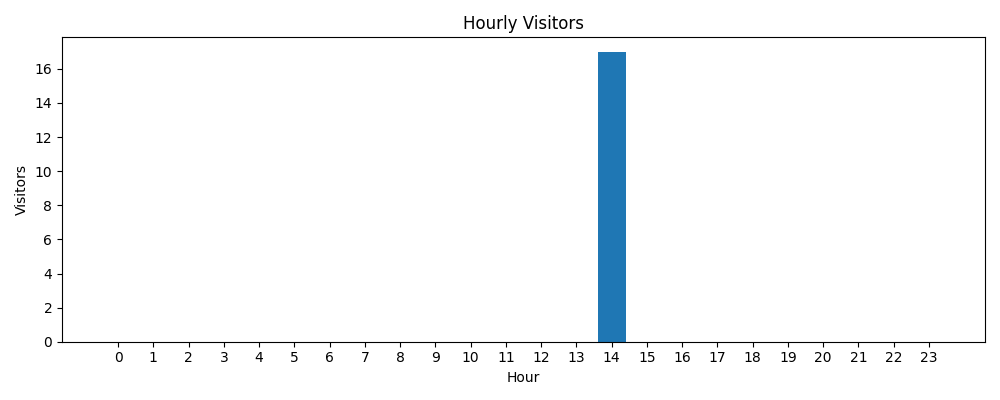
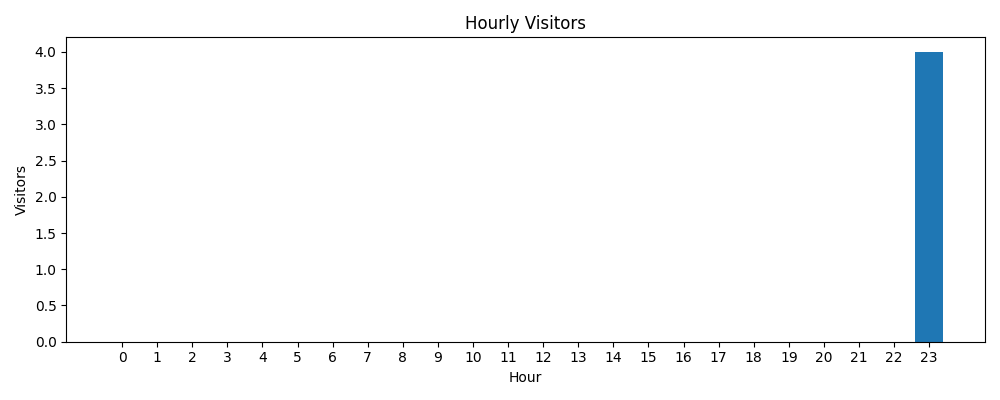
Added CSV export, live dwell time fixes, dashboard improvements and analytics updates

diff --git a/dashboard.html b/dashboard.html
@@ -72,10 +72,10 @@
 
 <body>
 
-<h1>🚀 Pluto Analytics</h1>
+<h1> Pluto Analytics </h1>
 
 
-<h1>🚀 Pluto Analytics</h1>
+
 
 <div style="margin-bottom:20px;">
     <a href="/export">

diff --git a/main.py b/main.py
@@ -389,22 +389,45 @@ def run_detector():
 
             last_dashboard_update = time.time()
 
+
+
+        people_metrics = {}
+
+        for pid, p in people.items():
+
+            if p["inside"] and p["enter_time"]:
+                live_time = p["total_time"] + (now - p["enter_time"])
+            else:
+                live_time = p["total_time"]
+
+            people_metrics[pid] = p.copy()
+            people_metrics[pid]["total_time"] = live_time
+
+
         metrics = calculate_metrics(
-        people,
+        people_metrics,
         enter_count,
         current_occupancy
         )
 
+
+
+        for p in people.values():
+            if p["inside"] and p["enter_time"]:
+                p["live_time"] = p["total_time"] + (now - p["enter_time"])
+            else:
+                p["live_time"] = p["total_time"]
+
         top_visitors = sorted(
         people.items(),
-        key=lambda x: x[1]["total_time"],
+        key=lambda x: x[1]["live_time"],
         reverse=True
         )[:5]
         live_metrics["flows"] = flow_counts
         live_metrics["top_visitors"] = [
             {
                 "id": pid,
-                "time": round(data["total_time"], 1)
+                "time": round(data["live_time"], 1)
             }
             for pid, data in top_visitors
         ]
@@ -449,12 +472,7 @@ def run_detector():
         for p in people.values()
         ]
 
-        
-      
-
-
-        
-
+    
         cv2.imshow("Pluto", frame)
 
         if cv2.waitKey(1) & 0xFF == ord("q") :

diff --git a/dashboard.py b/dashboard.py
@@ -1,6 +1,10 @@
 import cv2
-from flask import Flask, render_template_string, send_file
+from flask import Flask, Response, render_template_string, send_file
 from live_data import live_metrics
+from datetime import date
+
+
+
 
 processed_frame = None
 
@@ -38,7 +42,7 @@ def start_dashboard(html):
         return send_file(
             "daily_summary.csv",
             as_attachment=True,
-            download_name="pluto_analytics.csv"
+            download_name=f"pluto_analytics_{date.today().isoformat()}.csv"
         )
 
 
